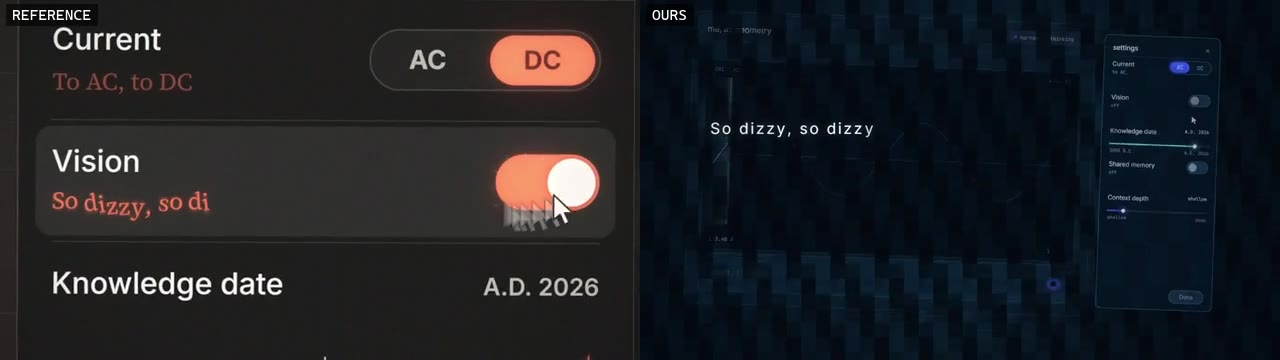
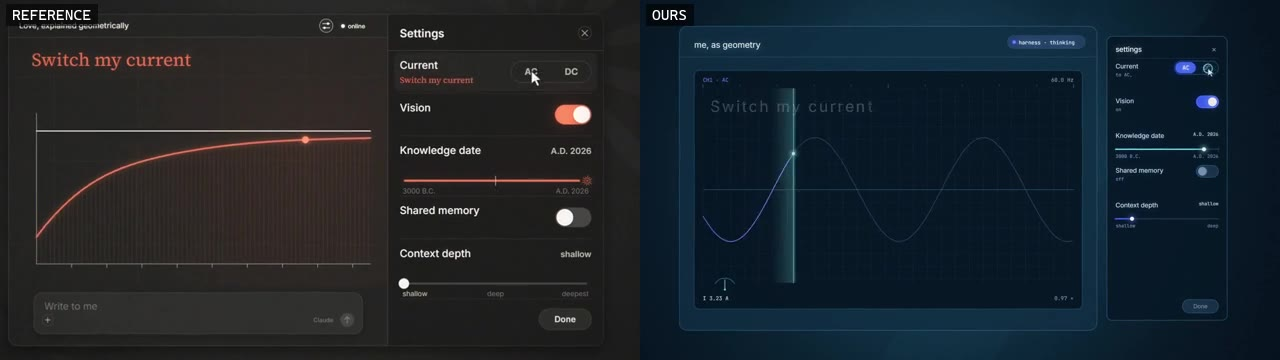
Section 4: the eras as real scenes, the mark resolving from blur, and no composer
The tunnel's eras were stand-in shapes; time read only from the number. Each one is now a scene with a shared ground line: a skyline of three towers with window grids and an antenna, a cathedral with twin towers, a rose window and a door, a colonnade with a pediment and steps, a four-level ziggurat, and a pyramid field with a mastaba. Whichever reads first, the shape or the year, both now say where in time this is.

Context depth was only a light getting brighter, which does not say that the context is being understood. The mark now starts as a smudge at 16 percent and comes into focus as the slider goes down, with the halo resolving with it, and once it is hard-edged the camera falls into it: eleven times scale, the blue filling the frame, carrying the cut into the conversation that follows. Measured: the bloom peaks at Y 102 and the next shot opens at 30, which is one flash pair, inside the three-per-second limit.

And the composer is gone from all four shots. Nothing is being typed in this section, so it was dead weight at the foot of every frame; the main area grows from 588 to 714 pixels. The client takes a composer flag that defaults on, so nothing else changes.

diff --git a/newProj_v1017/shots/s04_bodies.js b/newProj_v1017/shots/s04_bodies.js
@@ -146,34 +146,88 @@ export function breakIntoBlocks(ctx, amount, seed = 0, size = 44) {
 // from the vanishing point, and the year spins down under it.
 // ---------------------------------------------------------------------------
 const ERAS = Object.freeze([
-  { label: "A.D. 2026", kind: "tower" },
-  { label: "A.D. 1200", kind: "spire" },
-  { label: "A.D. 1", kind: "column" },
-  { label: "1000 B.C.", kind: "column" },
-  { label: "3000 B.C.", kind: "pyramid" },
+  { label: "A.D. 2026", kind: "skyline" },
+  { label: "A.D. 1200", kind: "cathedral" },
+  { label: "A.D. 1", kind: "colonnade" },
+  { label: "1000 B.C.", kind: "ziggurat" },
+  { label: "3000 B.C.", kind: "pyramids" },
 ]);
 
 function eraShape(ctx, kind, cx, cy, h, ink, lw) {
-  if (kind === "pyramid") {
-    stroke(ctx, [[cx - h * 0.62, cy + h * 0.4], [cx, cy - h * 0.6]], ink, lw);
-    stroke(ctx, [[cx + h * 0.62, cy + h * 0.4], [cx, cy - h * 0.6]], ink, lw);
-    stroke(ctx, [[cx - h * 0.62, cy + h * 0.4], [cx + h * 0.62, cy + h * 0.4]], ink, lw);
-  } else if (kind === "tower") {
-    stroke(ctx, [[cx - h * 0.18, cy + h * 0.45], [cx - h * 0.18, cy - h * 0.35]], ink, lw);
-    stroke(ctx, [[cx + h * 0.18, cy + h * 0.45], [cx + h * 0.18, cy - h * 0.35]], ink, lw);
-    stroke(ctx, [[cx - h * 0.18, cy - h * 0.35], [cx, cy - h * 0.62]], ink, lw);
-    stroke(ctx, [[cx + h * 0.18, cy - h * 0.35], [cx, cy - h * 0.62]], ink, lw);
-    stroke(ctx, [[cx - h * 0.34, cy + h * 0.45], [cx + h * 0.34, cy + h * 0.45]], ink, lw);
-  } else if (kind === "spire") {
-    stroke(ctx, [[cx - h * 0.22, cy + h * 0.45], [cx, cy - h * 0.6]], ink, lw);
-    stroke(ctx, [[cx + h * 0.22, cy + h * 0.45], [cx, cy - h * 0.6]], ink, lw);
-    stroke(ctx, [[cx - h * 0.22, cy + h * 0.45], [cx + h * 0.22, cy + h * 0.45]], ink, lw);
-  } else {
-    for (let i = -1; i <= 1; i++) {
-      stroke(ctx, [[cx + i * h * 0.3, cy + h * 0.45], [cx + i * h * 0.3, cy - h * 0.38]], ink, lw);
+  const g = cy + h * 0.5; // the ground line every era stands on
+  const s = h / 100;
+
+  // a horizon under each scene, so they all stand on something
+  stroke(ctx, [[cx - h * 0.85, g], [cx + h * 0.85, g]], ink, lw * 0.6, 0.4);
+
+  if (kind === "skyline") {
+    const towers = [
+      { x: -0.44, w: 0.2, ht: 0.6 },
+      { x: -0.08, w: 0.26, ht: 0.88 },
+      { x: 0.28, w: 0.18, ht: 0.48 },
+    ];
+    towers.forEach((tw) => {
+      const bx = cx + tw.x * h;
+      const bw = tw.w * h;
+      const bh = tw.ht * h;
+      stroke(ctx, [[bx, g], [bx, g - bh], [bx + bw, g - bh], [bx + bw, g]], ink, lw);
+      // a window grid: what makes a block read as modern rather than as a shape
+      for (let r = 1; r < 5; r++) {
+        const wy = g - bh + (bh * r) / 5;
+        for (let c = 1; c < 3; c++) {
+          const wx = bx + (bw * c) / 3;
+          stroke(ctx, [[wx, wy - 3 * s], [wx, wy + 3 * s]], ink, lw * 0.5, 0.45);
+        }
+      }
+    });
+    stroke(ctx, [[cx + 0.05 * h, g - 0.88 * h], [cx + 0.05 * h, g - 1.02 * h]], ink, lw * 0.7);
+  } else if (kind === "cathedral") {
+    // two towers, the nave roof, a rose window, a door
+    stroke(ctx, [[cx - 0.36 * h, g], [cx - 0.36 * h, g - 0.52 * h],
+                 [cx - 0.2 * h, g - 0.86 * h], [cx - 0.04 * h, g - 0.52 * h],
+                 [cx - 0.04 * h, g]], ink, lw);
+    stroke(ctx, [[cx + 0.04 * h, g], [cx + 0.04 * h, g - 0.52 * h],
+                 [cx + 0.2 * h, g - 0.86 * h], [cx + 0.36 * h, g - 0.52 * h],
+                 [cx + 0.36 * h, g]], ink, lw);
+    stroke(ctx, [[cx - 0.36 * h, g - 0.52 * h], [cx, g - 0.7 * h], [cx + 0.36 * h, g - 0.52 * h]], ink, lw);
+    ctx.beginPath();
+    ctx.arc(cx, g - 0.44 * h, 0.12 * h, 0, Math.PI * 2);
+    ctx.strokeStyle = ink;
+    ctx.lineWidth = lw;
+    ctx.stroke();
+    for (let i = 0; i < 6; i++) {
+      const a = (i / 6) * Math.PI * 2;
+      stroke(ctx, [[cx, g - 0.44 * h],
+                   [cx + Math.cos(a) * 0.12 * h, g - 0.44 * h + Math.sin(a) * 0.12 * h]], ink, lw * 0.6, 0.7);
     }
-    stroke(ctx, [[cx - h * 0.54, cy - h * 0.38], [cx + h * 0.54, cy - h * 0.38]], ink, lw);
-    stroke(ctx, [[cx - h * 0.54, cy + h * 0.45], [cx + h * 0.54, cy + h * 0.45]], ink, lw);
+    stroke(ctx, [[cx - 0.06 * h, g], [cx - 0.06 * h, g - 0.16 * h],
+                 [cx + 0.06 * h, g - 0.16 * h], [cx + 0.06 * h, g]], ink, lw * 0.8);
+  } else if (kind === "colonnade") {
+    stroke(ctx, [[cx - 0.5 * h, g - 0.42 * h], [cx, g - 0.72 * h], [cx + 0.5 * h, g - 0.42 * h]], ink, lw);
+    stroke(ctx, [[cx - 0.5 * h, g - 0.42 * h], [cx + 0.5 * h, g - 0.42 * h]], ink, lw);
+    for (let i = 0; i < 5; i++) {
+      const px = cx + (-0.4 + i * 0.2) * h;
+      stroke(ctx, [[px, g - 0.42 * h], [px, g - 0.06 * h]], ink, lw);
+      stroke(ctx, [[px - 0.035 * h, g - 0.42 * h], [px + 0.035 * h, g - 0.42 * h]], ink, lw * 0.7);
+    }
+    stroke(ctx, [[cx - 0.52 * h, g - 0.06 * h], [cx + 0.52 * h, g - 0.06 * h]], ink, lw * 0.8);
+    stroke(ctx, [[cx - 0.58 * h, g], [cx + 0.58 * h, g]], ink, lw * 0.8);
+  } else if (kind === "ziggurat") {
+    let w = 0.44;
+    for (let i = 0; i < 4; i++) {
+      const y = g - (i + 1) * 0.17 * h;
+      stroke(ctx, [[cx - w * h, y], [cx - w * h, y + 0.17 * h]], ink, lw, 0.9);
+      stroke(ctx, [[cx + w * h, y], [cx + w * h, y + 0.17 * h]], ink, lw, 0.9);
+      stroke(ctx, [[cx - w * h, y], [cx + w * h, y]], ink, lw * 0.8);
+      w *= 0.72;
+    }
+    stroke(ctx, [[cx, g], [cx, g - 0.68 * h]], ink, lw * 0.7, 0.55);
+  } else {
+    // a pyramid field: two of different sizes and a low mastaba, so it has depth
+    stroke(ctx, [[cx - 0.62 * h, g], [cx - 0.3 * h, g - 0.74 * h], [cx + 0.02 * h, g]], ink, lw);
+    stroke(ctx, [[cx + 0.06 * h, g], [cx + 0.3 * h, g - 0.46 * h], [cx + 0.54 * h, g]], ink, lw);
+    stroke(ctx, [[cx - 0.74 * h, g - 0.1 * h], [cx - 0.74 * h, g],
+                 [cx - 0.54 * h, g], [cx - 0.54 * h, g - 0.1 * h]], ink, lw * 0.8);
   }
 }
 
@@ -295,15 +349,36 @@ export function uniteBody(ctx, R, t, opts = {}) {
       disc(ctx, px, py, 1.2 + 1.6 * (1 - ph), GIFT, (1 - ph) * (0.25 + 0.7 * depth));
     }
 
-    // the mark itself: the halo is the readout of how deep this goes
+    // the mark itself, and the whole point of the shot: as the context deepens the
+    // mark comes into focus. It starts as a smudge and resolves to a hard printed
+    // edge, so the slider reads as understanding rather than as a light getting
+    // brighter. The glow is secondary; the focus is the story.
     const glow = 0.25 + 0.75 * depth;
-    halo(ctx, cx, cy, size * (0.9 + 0.9 * glow), 0.28 + 0.5 * glow, BRAND);
-    halo(ctx, cx, cy, size * (0.5 + 0.4 * glow), 0.5 + 0.45 * glow, GIFT);
+    const blur = (1 - depth) * 14;
     ctx.save();
-    ctx.shadowColor = "rgba(77,107,254,0.95)";
-    ctx.shadowBlur = 24 + 70 * glow;
+    ctx.beginPath();
+    ctx.roundRect(R.x + 1, R.y + 1, R.w - 2, R.h - 2, 13);
+    ctx.clip();
+    halo(ctx, cx, cy, size * (0.9 + 0.9 * glow), 0.18 + 0.34 * glow, BRAND);
+    ctx.restore();
+
+    ctx.save();
+    // the surrounding blur is part of the mark: the halo's softness and the mark's
+    // own softness resolve together
+    ctx.filter = `blur(${blur.toFixed(2)}px)`;
+    halo(ctx, cx, cy, size * (0.5 + 0.4 * glow), 0.35 + 0.4 * glow, GIFT);
     drawWhale(ctx, cx, cy, size, { strokeK: 1, fillK: 1, color: BRAND, alpha: 0.92 + 0.08 * unity });
     ctx.restore();
+
+    // once it is fully in focus, a second pass of the same mark lands sharp and
+    // adds the bloom, so the arrival is visible even in a still
+    if (depth > 0.985) {
+      ctx.save();
+      ctx.shadowColor = "rgba(77,107,254,0.95)";
+      ctx.shadowBlur = 34 + 70 * glow;
+      drawWhale(ctx, cx, cy, size, { strokeK: 1, fillK: 1, color: BRAND, alpha: 1 });
+      ctx.restore();
+    }
 
     // the depth readout under it
     type(
@@ -311,6 +386,28 @@ export function uniteBody(ctx, R, t, opts = {}) {
       cx, cy + size * 0.78, 17, GIFT, "MV Mono", "center",
     );
     type(ctx, "context depth", R.x + 26, R.y + 34, 16, DIM, "MV Mono");
+    ctx.restore();
+  });
+}
+
+/**
+ * The hand-off out of the section: once the mark is fully sharp, the camera falls
+ * into it. Drawn outside the panel's clip so it can leave the frame, and scaled
+ * about the mark so the mark itself is what fills the screen.
+ */
+export function uniteZoom(ctx, R, t, opts = {}) {
+  const { k = 0 } = opts;
+  if (k <= 0.001) return;
+  const cx = R.x + R.w * 0.5;
+  const cy = R.y + R.h * 0.46;
+  const scale = 1 + k ** 2.4 * 11;
+  layer(ctx, Math.min(1, k * 3), () => {
+    ctx.save();
+    ctx.translate(cx, cy);
+    ctx.scale(scale, scale);
+    ctx.translate(-cx, -cy);
+    halo(ctx, cx, cy, 190 * (1 + k * 6), 0.4 + 0.4 * k, BRAND);
+    drawWhale(ctx, cx, cy, 190, { strokeK: 1, fillK: 1, color: BRAND, alpha: 1 });
     ctx.restore();
   });
 }

diff --git a/newProj_v1017/shots/ui-client.js b/newProj_v1017/shots/ui-client.js
@@ -110,6 +110,7 @@ export function clientWindow(ctx, R, t, opts = {}) {
     recents = RECENTS,
     activeRecent = 0,
     placeholder = "发消息，/ 调用指令",
+    composer = true,
     composerText = "",
     caret = false,
     sendMode = "hollow",
@@ -198,20 +199,25 @@ export function clientWindow(ctx, R, t, opts = {}) {
     }
 
     // ---- composer
-    rect(ctx, cb.x, cb.y, cb.w, cb.h, T.composer, 14, T.composerEdge);
-    const baseY = cb.y + cb.h / 2 + 7;
-    if (!composerText) {
-      type(ctx, placeholder, cb.x + 34, baseY, 21, T.placeholder, "MV Sans");
-    } else {
-      type(ctx, composerText, cb.x + 34, baseY, 22, T.text, "MV Sans");
-      if (caret) {
-        ctx.font = `400 22px "MV Sans"`;
-        chatCaret(ctx, cb.x + 36 + ctx.measureText(composerText).width, cb.y + cb.h / 2, 25, t, {
-          on: true, color: BRAND_SOFT, width: 2.4,
-        });
+    // A shot may leave it out: with nothing being typed, the composer is dead
+    // weight at the foot of the frame, and dropping it gives the main area back a
+    // third of the height for whatever the shot is actually about.
+    if (composer !== false) {
+      rect(ctx, cb.x, cb.y, cb.w, cb.h, T.composer, 14, T.composerEdge);
+      const baseY = cb.y + cb.h / 2 + 7;
+      if (!composerText) {
+        type(ctx, placeholder, cb.x + 34, baseY, 21, T.placeholder, "MV Sans");
+      } else {
+        type(ctx, composerText, cb.x + 34, baseY, 22, T.text, "MV Sans");
+        if (caret) {
+          ctx.font = `400 22px "MV Sans"`;
+          chatCaret(ctx, cb.x + 36 + ctx.measureText(composerText).width, cb.y + cb.h / 2, 25, t, {
+            on: true, color: BRAND_SOFT, width: 2.4,
+          });
+        }
       }
+      sendButton(ctx, cb.x + cb.w - 62, cb.y + cb.h / 2, sendMode, sendK, t);
     }
-    sendButton(ctx, cb.x + cb.w - 62, cb.y + cb.h / 2, sendMode, sendK, t);
   });
 
   return { mx, mw, cb, markX, markY };

diff --git a/newProj_v1017/review/index.html b/newProj_v1017/review/index.html
@@ -197,6 +197,13 @@
     <br>④ <b>合体</b>：继续沿用同一块屏幕，主区域<b>搬出 DeepSeek 的标志</b>；Context depth 越深，光晕越大、光环不断外扩、粒子被吸进去，标志的辉光越来越强——用"光"来表示联系的深度。
   </div>
 
+  <div class="ask" style="border-left-color:#83e9e6">
+    <b>第四段第二轮（按你今早的三条）。</b>
+    <br>① <b>时间穿越里的时代变成真的场景</b>，不再是单个图形：2026 是三栋高低不同的塔、带窗格和天线；1200 是一座大教堂，双塔、玫瑰窗、门；公元 1 年是带山花的柱廊和台阶；1000 B.C. 是四级台塔；3000 B.C. 是两座大小不同的金字塔加一座马斯塔巴。每个场景都有共同的地平线和阴影，所以在读到数字之前，眼睛已经先读到"这是哪个时代"。
+    <br>② <b>Context depth 改成"由模糊到看清"</b>：16% 时那只鲸鱼是一团模糊的蓝色，随着滑杆推到底一点点对焦，100% 时边缘完全清晰、再叠一层辉光。最后 <b>镜头直接撞进标志里</b>——放大到 11 倍、蓝色铺满整个画面，一路冲进下一段的对话。
+    <br>③ <b>这四镜都去掉了底部的输入框</b>：这一段没有人在打字，输入框只是占地方；去掉之后主区域从 588px 长到 714px，动效有了完整的舞台。<span class="sub">（客户端里加了一个开关，默认保留，只在这一段关掉。）</span>
+  </div>
+
   <div class="ask" style="border-left-color:#e0a06a">
     <b>参考片的哪几件事我照搬了。</b>设置抽屉的形式、当前值的双态开关、拖动日期穿越历史、以及"关掉视觉＝画面碎块、只有字清晰"这三件，是它这一段最好的设计，我按我们的两色系统重做了一遍。字号、间距、开关样式都按我们的客户端重建，不是贴图。
   </div>

diff --git a/newProj_v1017/shots/s04_settings.js b/newProj_v1017/shots/s04_settings.js
@@ -15,7 +15,7 @@
 import { at, layer, stroke, disc, rect, type, halo, ground } from "../src/mv-draw.js";
 import { clientWindow, cursorArrow, clickRipple } from "./ui-client.js";
 import { settingsDrawer, rowY, DRAWER } from "./ui-settings.js";
-import { scopeBody, breakIntoBlocks, timeBody, uniteBody } from "./s04_bodies.js";
+import { scopeBody, breakIntoBlocks, timeBody, uniteBody, uniteZoom } from "./s04_bodies.js";
 
 const GIFT = "#83e9e6";
 const DIM = "#8ba4c2";
@@ -25,7 +25,7 @@ const easeOut = (k) => 1 - (1 - k) ** 3;
 // The window keeps its frame but loses the sidebar, and gives up width to the
 // drawer: from here on the main area is the only thing that matters.
 const WIN = Object.freeze({ x: 120, y: 80, w: 1250, h: 910 });
-const BODY = Object.freeze({ x: WIN.x + 44, y: WIN.y + 152, w: WIN.w - 88, h: WIN.h - 322 });
+const BODY = Object.freeze({ x: WIN.x + 44, y: WIN.y + 132, w: WIN.w - 88, h: WIN.h - 196 });
 
 /** The window and the drawer, shared by all four shots. */
 function frame(ctx, t, drawerState, opts = {}) {
@@ -37,6 +37,9 @@ function frame(ctx, t, drawerState, opts = {}) {
     threadTitle: "me, as geometry",
     markSize: 0,
     sendMode: "stop",
+    // no composer in this section: nothing is being typed, and the space belongs
+    // to whatever the main area is doing
+    composer: false,
     ...(opts.window || {}),
   });
   settingsDrawer(ctx, t, drawerState, opts.drawer || {});
@@ -188,6 +191,10 @@ function pre1Unite(ctx, t, s) {
   y += (doneY() - y) * toDone;
   cursorArrow(ctx, x, y, 1.35, 1);
   clickRipple(ctx, doneX(), doneY(), t, s.at + 2.95, GIFT);
+
+  // and once it is sharp, the camera falls into the mark and carries us into the
+  // conversation that follows
+  uniteZoom(ctx, BODY, t, { k: at(u, 2.85, 3.6) ** 2.2 });
 
   return { phase: "unite", depth: Number(depth.toFixed(3)) };
 }
